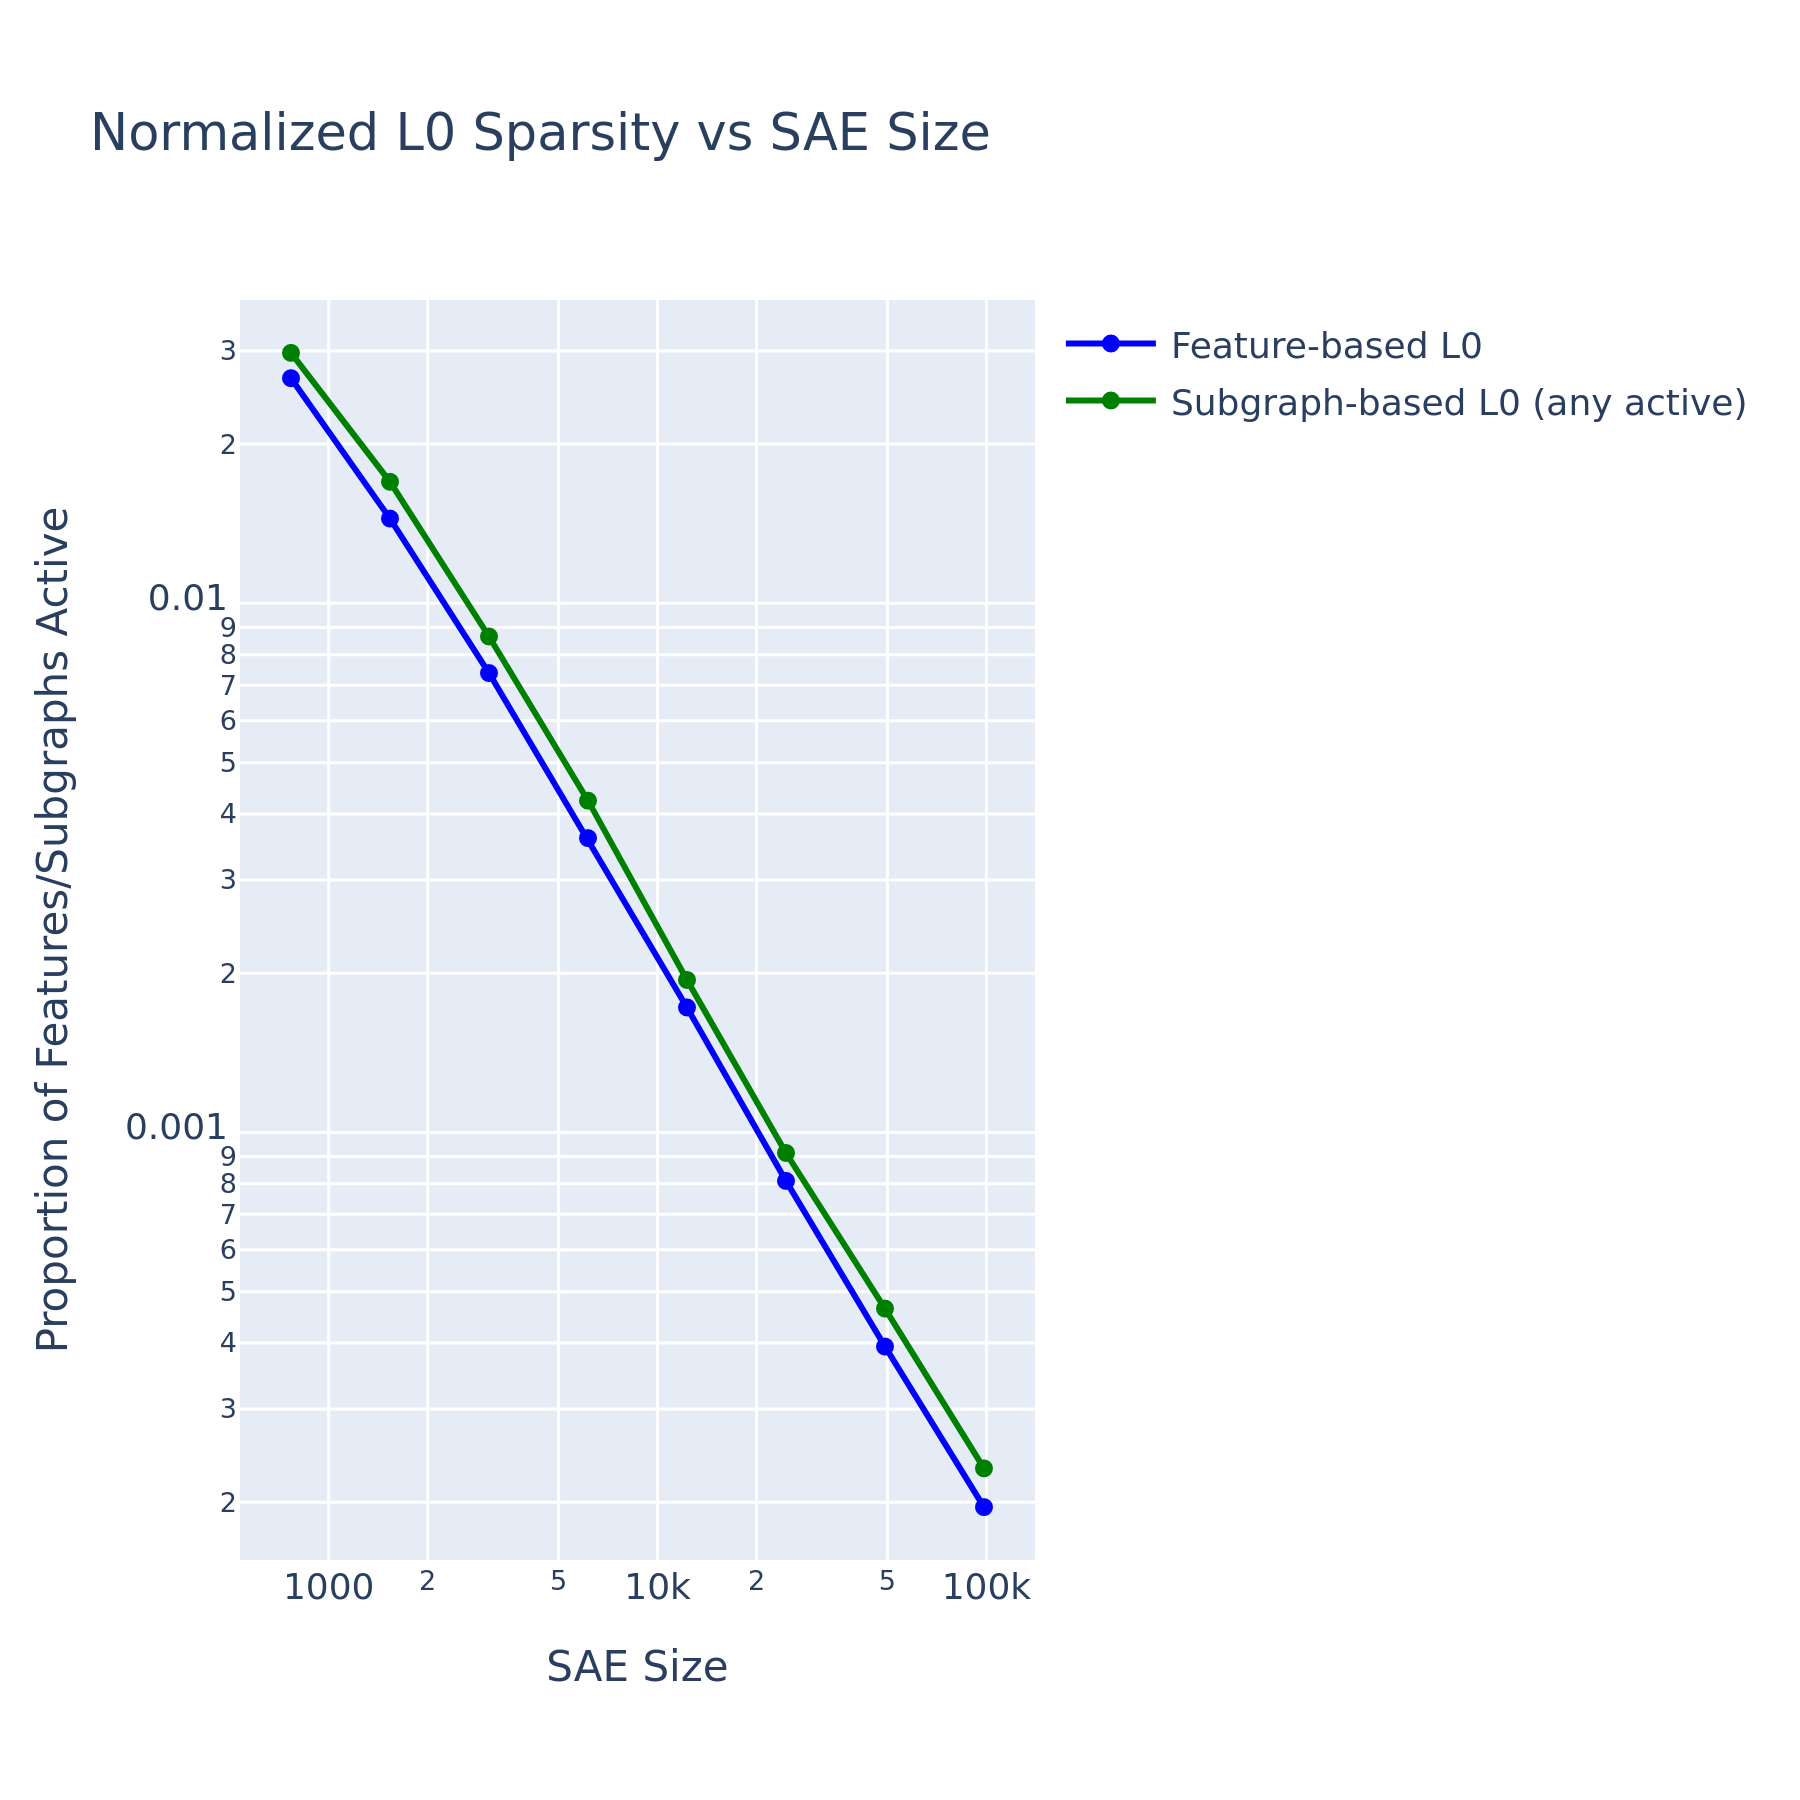
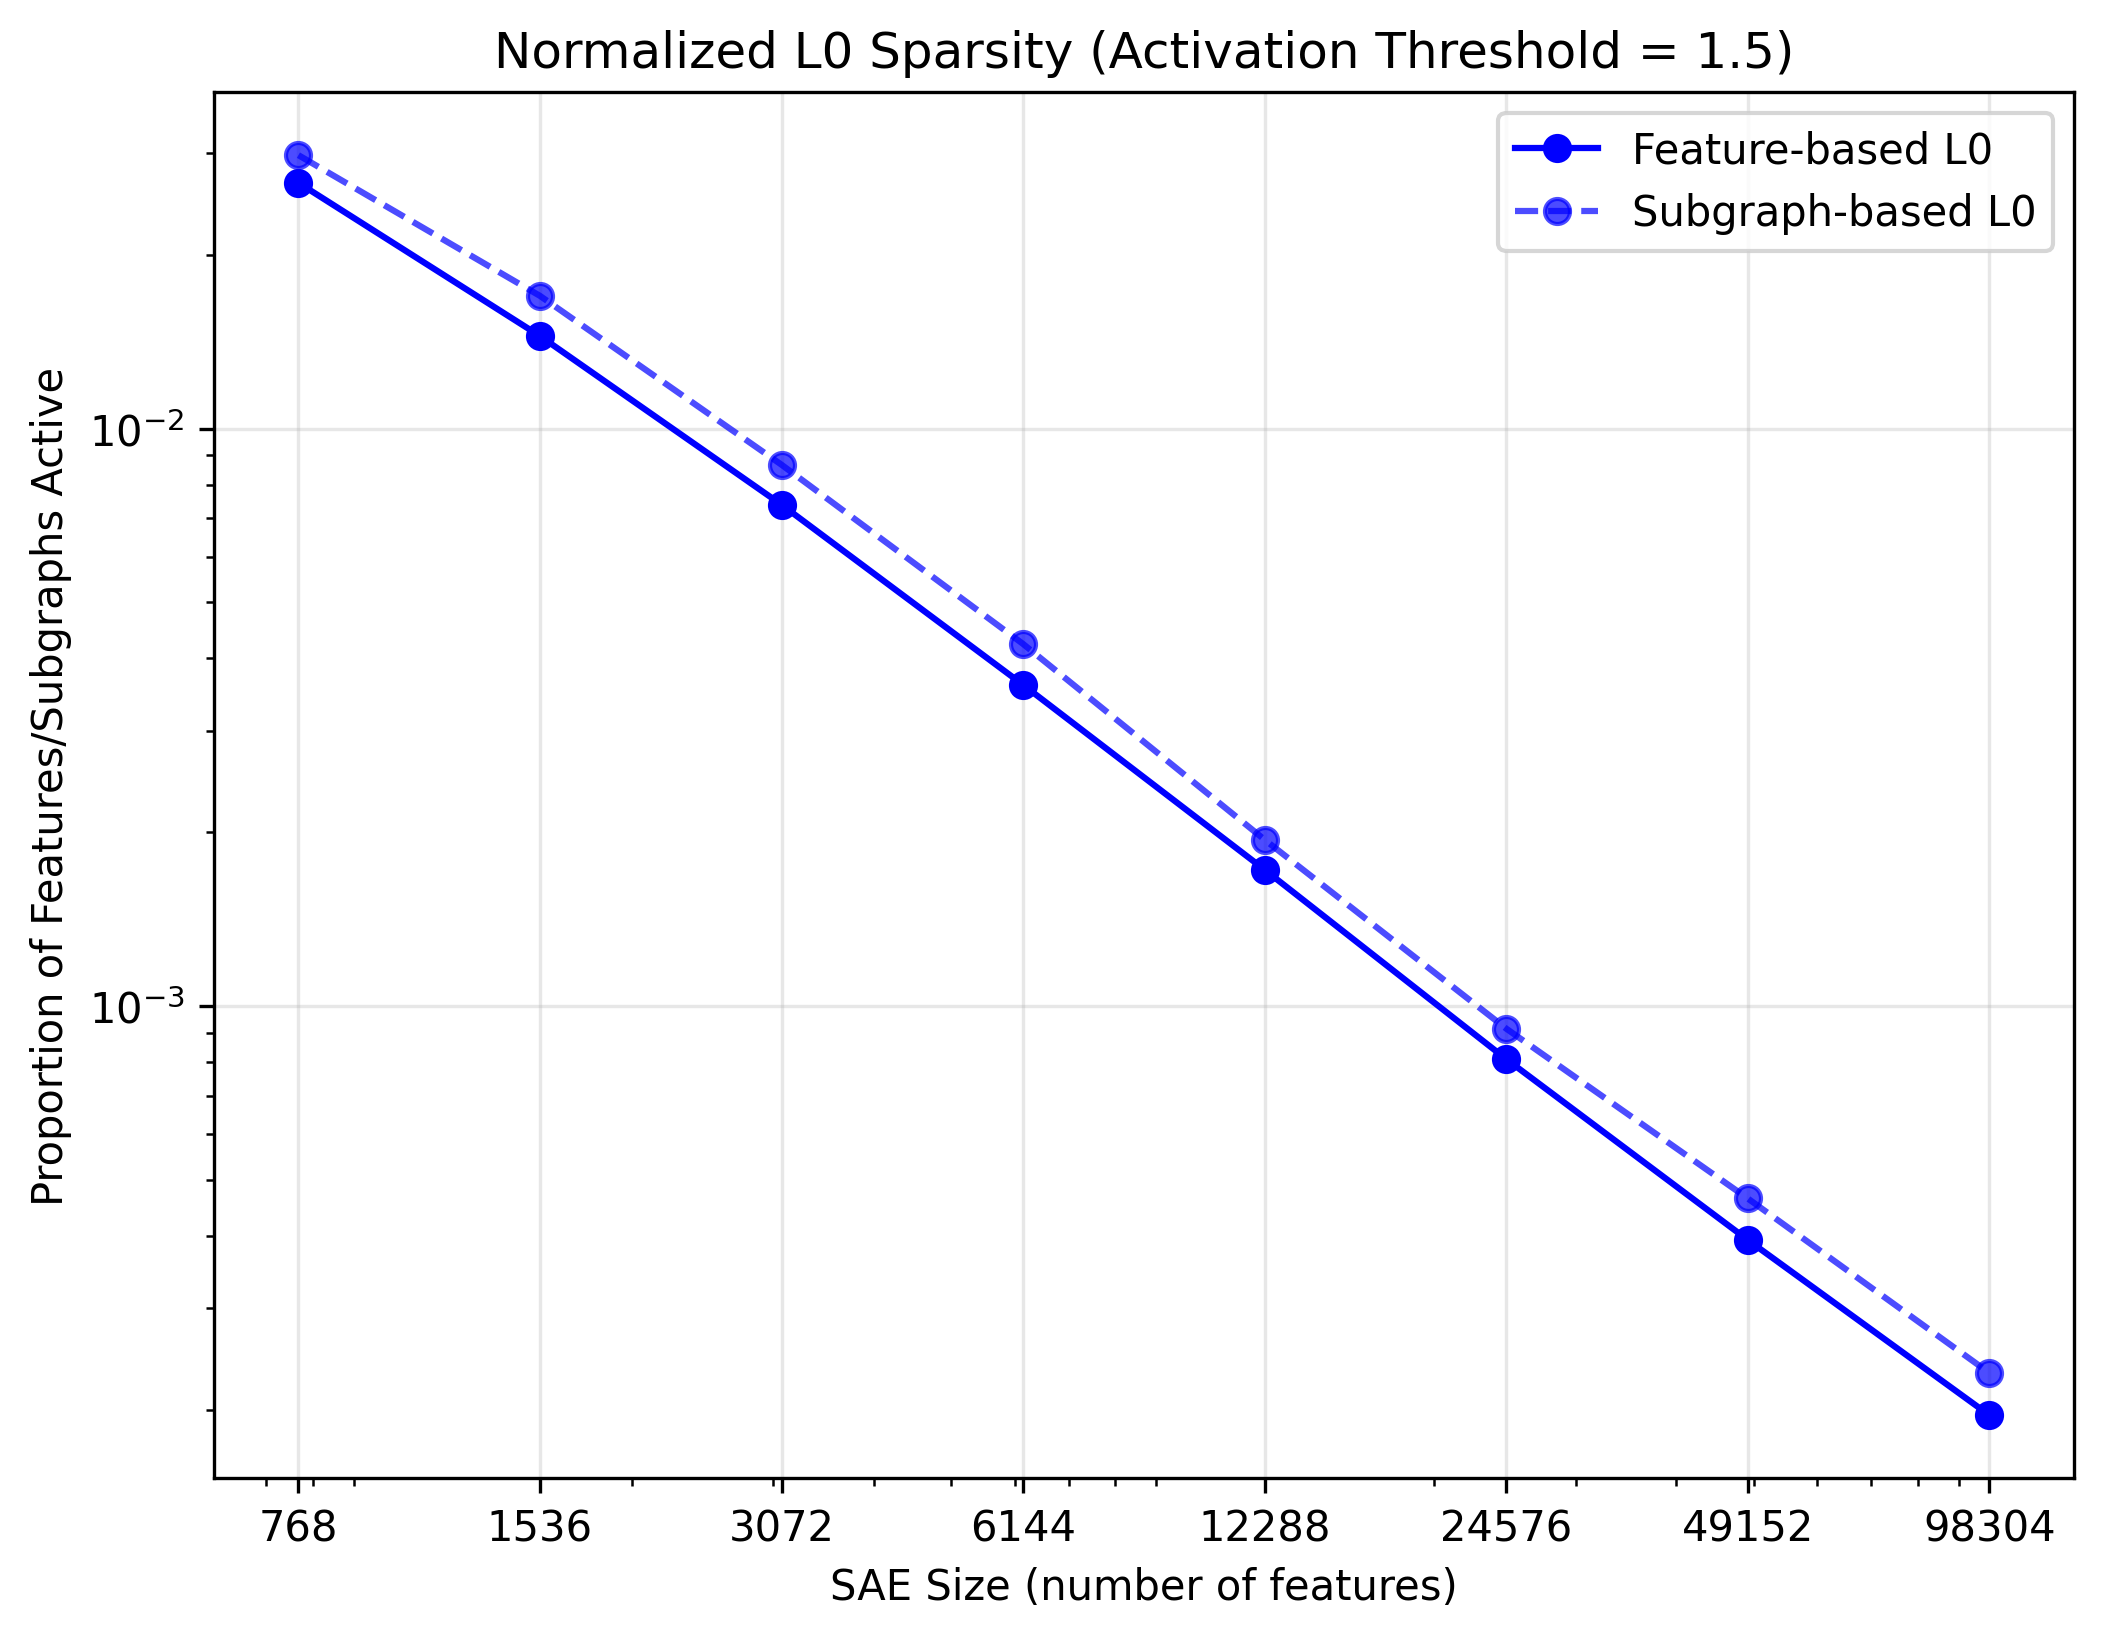
change: change plots from plotly to matplot for consistency change: remove values from x-axis for gemma models
See Issue #103

diff --git a/src/size_effects/feature_graph_l0.py b/src/size_effects/feature_graph_l0.py
@@ -212,11 +212,9 @@ def plot_l0_comparison_matplotlib(
 ):
     # Use either sae_size or average_l0 for x-axis
     x_values = [r[x_axis_key] for r in results]
-    x_axis_label = (
-        "SAE Size (number of features)"
-        if x_axis_key == "sae_size"
-        else "Target Average L0"
-    )
+    width_x_axis_label = "SAE Size (number of features)"
+    l0_x_axis_label = "Target Average L0"
+    x_axis_label = width_x_axis_label if x_axis_key == "sae_size" else l0_x_axis_label
 
     feature_l0s = [r["feature_l0"] for r in results]
     subgraph_l0s_any = [r["subgraph_l0_any"] for r in results]
@@ -251,7 +249,9 @@ def plot_l0_comparison_matplotlib(
     plt.yscale("log")
     plt.xlabel(x_axis_label)
     plt.ylabel("Proportion of Features/Subgraphs Active")
-    plt.xticks(x_values, x_values)  # Set specific x-tick locations and labels
+    # Use default ticks for gemma models
+    if "gemma" not in results[0]["model_name"]:
+        plt.xticks(x_values, x_values)  # Set specific x-tick locations and labels
     plt.title(
         f"Normalized L0 Sparsity (Activation Threshold = {activation_threshold_safe.replace('_', '.')})"
     )
@@ -279,7 +279,9 @@ def plot_l0_comparison_matplotlib(
     plt.yscale("log")
     plt.xlabel(x_axis_label)
     plt.ylabel("Average Active Features/Subgraphs per Token")
-    plt.xticks(x_values, x_values)  # Set specific x-tick locations and labels
+    # Use default ticks for gemma models
+    if "gemma" not in results[0]["model_name"]:
+        plt.xticks(x_values, x_values)  # Set specific x-tick locations and labels
     plt.title(
         f"Raw L0 Sparsity (Activation Threshold = {activation_threshold_safe.replace('_', '.')})"
     )
